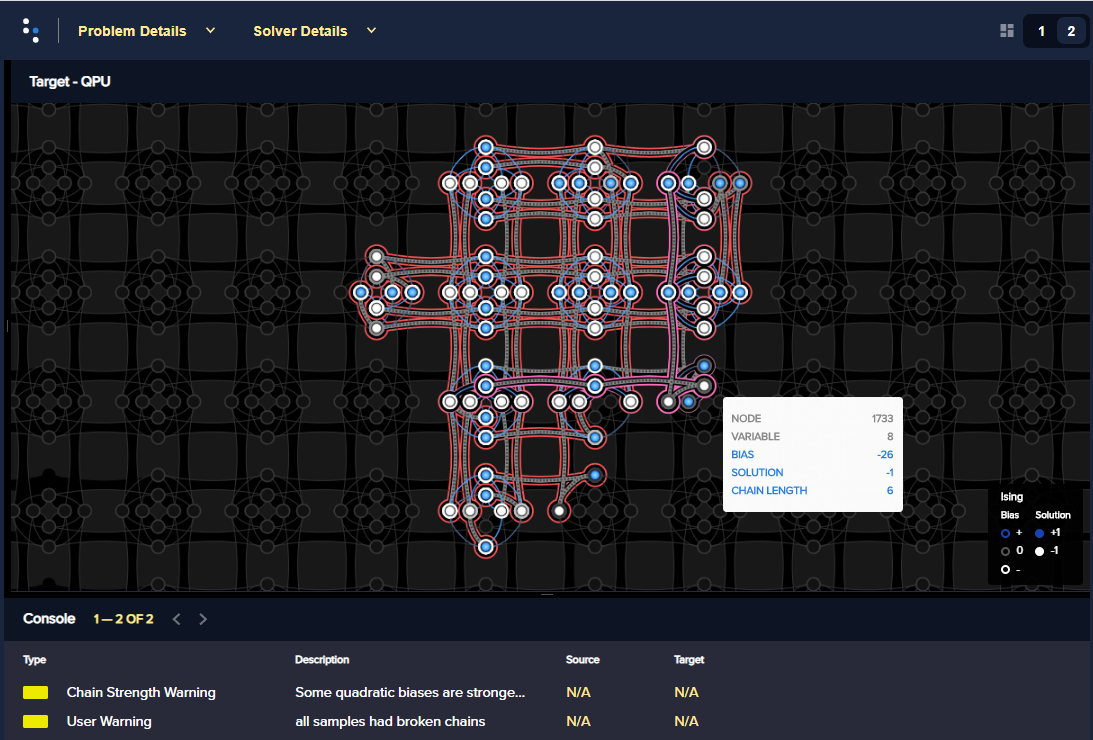
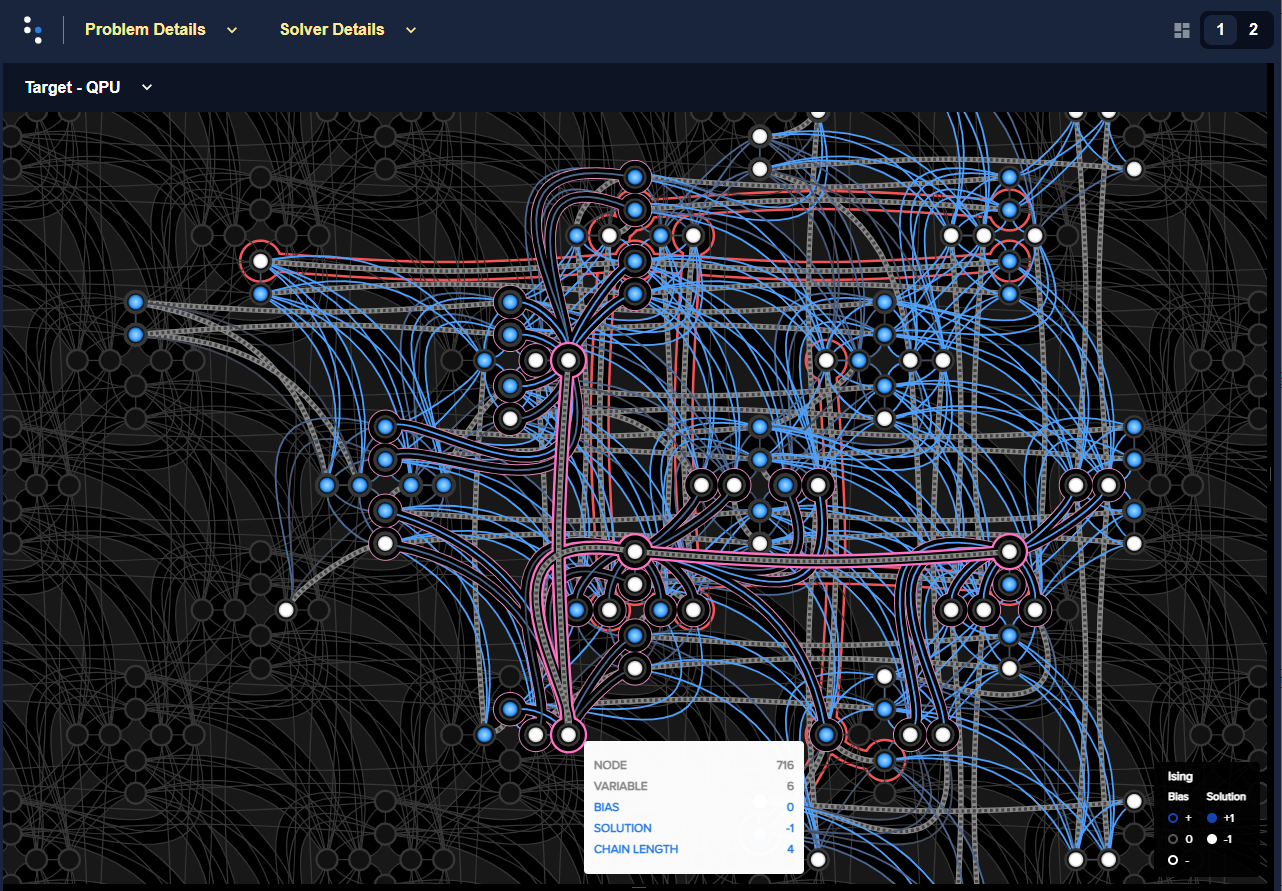
Update examples/inspector_graph_partitioning to pegasus

diff --git a/docs/examples/inspector_graph_partitioning.rst b/docs/examples/inspector_graph_partitioning.rst
@@ -14,21 +14,21 @@ Example Requirements
 
 To run the code in this example, the following is required.
 
-* The requisite information for problem submission through SAPI, as described
-  in :ref:`sapi_access`.
-* Ocean tools :doc:`dwave-system </docs_system/sdk_index>` and
-  :doc:`dwave-inspector </docs_inspector/sdk_index>`.
+*   The requisite information for problem submission through SAPI, as described
+    in :ref:`sapi_access`.
+*   Ocean tools :doc:`dwave-system </docs_system/sdk_index>` and
+    :doc:`dwave-inspector </docs_inspector/sdk_index>`.
 
 .. include:: hybrid_solver_service.rst
-  :start-after: example-requirements-start-marker
-  :end-before: example-requirements-end-marker
+    :start-after: example-requirements-start-marker
+    :end-before: example-requirements-end-marker
 
 Solution Steps
 ==============
 
 .. include:: hybrid_solver_service.rst
-  :start-after: example-steps-start-marker
-  :end-before: example-steps-end-marker
+    :start-after: example-steps-start-marker
+    :end-before: example-steps-end-marker
 
 In this example, a :term:`QUBO` is formulated with simple math, the problem is
 submitted naively to the QPU, its minor embedding examined using the problem
@@ -44,20 +44,18 @@ The problem of interest here,
 which is NP-hard, is to try and find the best division of the graph's nodes into two
 equal sets with a minimum number of edges between the two groups.
 
-.. testcode::
-
-    import networkx as nx
-
-    graph_nodes = 16
-    G = nx.random_geometric_graph(n=graph_nodes, radius=.5, dim=2)
+>>> import networkx as nx
+...
+>>> graph_nodes = 26
+>>> G = nx.random_geometric_graph(n=graph_nodes, radius=.5, dim=2)
 
 .. figure:: ../_images/inspector_rand_geom_plot.png
-   :name: InspectorRandGeomProblem
-   :alt: image
-   :align: center
-   :scale: 70 %
+    :name: InspectorRandGeomProblem
+    :alt: image
+    :align: center
+    :scale: 70 %
 
-   One arbitrary generation of the problem graph.
+    One arbitrary generation of the problem graph.
 
 Reformulate the Problem Graph as a BQM
 --------------------------------------
@@ -67,54 +65,45 @@ detail in the `Graph Partitioning <https://github.com/dwave-examples/graph-parti
 code example of the `D-Wave Code Examples <https://github.com/dwave-examples>`_ GitHub
 repository.
 
-.. testcode::
-
-    from collections import defaultdict
-    from itertools import combinations
-
-    gamma = 60
-
-    Q = defaultdict(int)
-
-    # Fill in Q matrix
-    for u, v in G.edges:
-        Q[(u,u)] += 1
-        Q[(v,v)] += 1
-        Q[(u,v)] += -2
-
-    for i in G.nodes:
-        Q[(i,i)] += gamma*(1-len(G.nodes))
-
-    for i, j in combinations(G.nodes, 2):
-    	Q[(i,j)] += 2*gamma
+>>> from collections import defaultdict
+>>> from itertools import combinations
+...
+>>> gamma = 70
+>>> Q = defaultdict(int)
+>>> # Fill in Q matrix
+>>> for u, v in G.edges:
+...     Q[(u,u)] += 1
+...     Q[(v,v)] += 1
+...     Q[(u,v)] += -2
+>>> for i in G.nodes:
+...     Q[(i,i)] += gamma*(1-len(G.nodes))
+>>> for i, j in combinations(G.nodes, 2):
+...     Q[(i,j)] += 2*gamma
 
 Print the range of values for the generated QUBO's elements:
 
 >>> print("Maximum element is {:.2f} and minimum is {:.2f}.".format(max(Q.values()), min(Q.values())))    # doctest: +SKIP
-Maximum element is 120.00 and minimum is -898.00.
+Maximum element is 140.00 and minimum is -1746.00.
 
 Solve the Problem by Sampling
 =============================
 
 .. note:: Importing the problem inspector activates for the session the capture of
-   data such as problems sent to the QPU and returned responses, relevant details of
-   minor-embedding, and warnings. The recommended workflow is to import it at the
-   start of your coding session or at least before submitting your problem, as is
-   done below.
+    data such as problems sent to the QPU and returned responses, relevant details of
+    minor-embedding, and warnings. The recommended workflow is to import it at the
+    start of your coding session or at least before submitting your problem, as is
+    done below.
 
-.. testcode::
-
-    import numpy as np
-    from dwave.system import DWaveSampler, EmbeddingComposite
-
-    # Import the problem inspector to begin data capture
-    import dwave.inspector
-
-    sampler = EmbeddingComposite(DWaveSampler(solver={'qpu': True}))
-
-    num_reads = 1000
-    sampleset = sampler.sample_qubo(Q, num_reads=num_reads, \
-                                    label='SDK Examples - Inspector')
+>>> import numpy as np
+>>> from dwave.system import DWaveSampler, EmbeddingComposite
+...
+>>> # Import the problem inspector to begin data capture
+>>> import dwave.inspector
+...
+>>> sampler = EmbeddingComposite(DWaveSampler())
+>>> num_reads = 1000
+>>> sampleset = sampler.sample_qubo(Q, num_reads=num_reads, \
+...     label='SDK Examples - Inspector')
 
 Check the best returned answer:
 
@@ -122,8 +111,8 @@ Check the best returned answer:
 ...        sum(sampleset.first.sample.values()),
 ...        graph_nodes - sum(sampleset.first.sample.values()),
 ...        sampleset.first.energy))      # doctest: +SKIP
-Number of nodes in one set is 8, in the other, 8.
-Energy is -3813.0.
+Number of nodes in one set is 13, in the other, 13.
+Energy is -11738.0.
 
 .. figure:: ../_images/inspector_rand_geom_sol_default.png
    :name: InspectorRandGeomBrokenChainsSolDefault
@@ -131,7 +120,7 @@ Energy is -3813.0.
    :align: center
    :scale: 70 %
 
-   Best graph partition found for a submission with a lowest energy value of :math:`-3813`.
+   Best graph partition found for a submission with a lowest energy value of :math:`-11738`.
 
 One simple measure of the overall quality of the returned samples is the percentage
 of samples based on chains with high breakage rates. Here a rate above one third is chosen
@@ -139,7 +128,7 @@ as the acceptable threshold:
 
 >>> print("Percentage of samples with high rates of breaks is {}.".format(
 ...        np.count_nonzero(sampleset.record.chain_break_fraction > 0.33)/num_reads*100))    # doctest: +SKIP
-Percentage of samples with high rates of breaks is 78.7.
+Percentage of samples with high rates of breaks is 46.4.
 
 Inspect the Submission
 ----------------------
@@ -154,7 +143,7 @@ Use the problem inspector on the returned samples:
    :align: center
    :scale: 50 %
 
-   Problem inspector displaying the logical problem: the problem BQM, on the left, and the returned energies histogram, on the right, for a submission with the chain strength set to its default value. For one arbitrary solution, selected by clicking an energy bar on the right (highlighted white), all values but two are shown as being based on broken chains. The selected variable on the left, variable :math:`8`, is shown to be represented on the QPU by a chain of 6 qubits.
+   Problem inspector displaying the logical problem: the problem BQM, on the left, and the returned energies histogram, on the right, for a submission with the chain strength set to its default value. For one arbitrary solution, selected by clicking an energy bar on the right (highlighted white), some values are shown as being based on broken chains. The selected variable on the left, variable ``17``, is shown to be represented on the QPU by a chain of 4 qubits.
 
 The problem inspector can also display the embedded problem, showing the qubits chains
 viewed on a background representation of the QPU topology:
@@ -165,7 +154,7 @@ viewed on a background representation of the QPU topology:
    :align: center
    :scale: 50 %
 
-   Problem inspector displaying the embedded problem, with broken chains highlighted, for a submission with the chain strength set to its default value.
+   Problem inspector displaying the embedded problem, with broken chains highlighted red, for a submission with the chain strength set to its default value.
 
 Using the same logic described in the
 `Graph Partitioning <https://github.com/dwave-examples/graph-partitioning>`_
@@ -184,8 +173,8 @@ submission had a lower minimum energy and no samples based on high rates of brok
 ...        sum(sampleset.first.sample.values()),
 ...        graph_nodes - sum(sampleset.first.sample.values()),
 ...        sampleset.first.energy))    # doctest: +SKIP
-Number of nodes in one set is 8, in the other, 8.
-Energy is -3815.0.
+Number of nodes in one set is 13, in the other, 13.
+Energy is -11748.0.
 ...
 >>> print("Percentage of samples with high rates of breaks is {}.".format(
 ...        np.count_nonzero(sampleset.record.chain_break_fraction > 0.33)/num_reads*100))    # doctest: +SKIP
@@ -224,7 +213,7 @@ a few distinct clusters. The problem inspector can zoom in on the lowest:
    Zoom on lowest-energy returned samples for chain strength set to a value of :math:`1000`.
 
 You see that most the returned solutions of lowest energy cluster closely around an
-energy of approximately -3807 but that the QPU has found some even lower-energy
+energy of approximately -11735 but that the QPU has found some even lower-energy
 solutions. From this one can assume that it might be possible find a better solution
 by increasing the number of reads. Additionally however, the complete lack of broken
 chains for the current returned sample set suggests that the chain strength can
@@ -232,7 +221,7 @@ likely be lowered while still maintaining a low rate of broken chains. Doing so
 enables the problem to be represented more accurately on the QPU.
 
 >>> sampleset = sampler.sample_qubo(Q, num_reads=num_reads,
-...                                 chain_strength=300,
+...                                 chain_strength=400,
 ...                                 label='SDK Examples - Inspector')
 
 Below is one run of a few iterations of adjusting chain strength. Notice that the
@@ -243,20 +232,20 @@ percent.
 ...        sum(sampleset.first.sample.values()),
 ...        graph_nodes - sum(sampleset.first.sample.values()),
 ...        sampleset.first.energy))     # doctest: +SKIP
-Number of nodes in one set is 8, in the other, 8.
-Energy is -3817.0.
+Number of nodes in one set is 13, in the other, 13.
+Energy is -11754.0.
 ...
 >>> print("Percentage of samples with >5 percent chain breaks is {}.".format(
 ...        np.count_nonzero(sampleset.record.chain_break_fraction > 0.05)/num_reads*100))       # doctest: +SKIP
-Percentage of samples with >5 percent chain breaks is 1.7000000000000002.
+Percentage of samples with >5 percent chain breaks is 0.2.
 
-The result of the shown submission, with a chain strength of :math:`300`, still had
+The result of the shown submission, with a chain strength of :math:`400`, still had
 less than 2% of its samples based on broken chains.
 
-.. figure:: ../_images/inspector_rand_geom_sol_300.png
-   :name: InspectorRandGeomBrokenChainsSol300
+.. figure:: ../_images/inspector_rand_geom_sol_400.png
+   :name: InspectorRandGeomBrokenChainsSol400
    :alt: image
    :align: center
    :scale: 70 %
 
-   Best graph partition found for a submission with chain strength of :math:`300`.
+   Best graph partition found for a submission with chain strength of :math:`400`.
